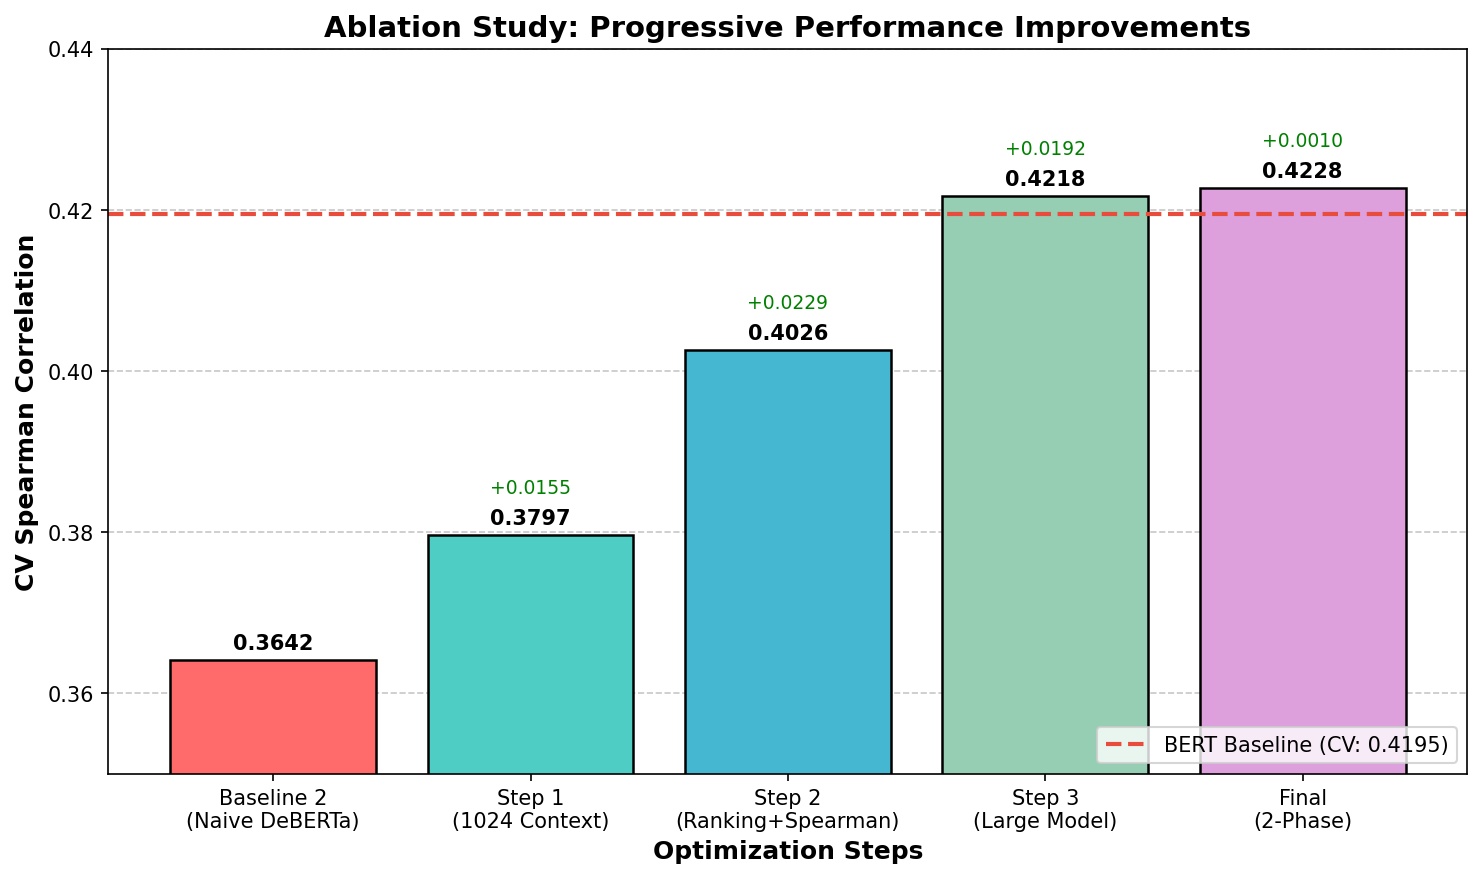
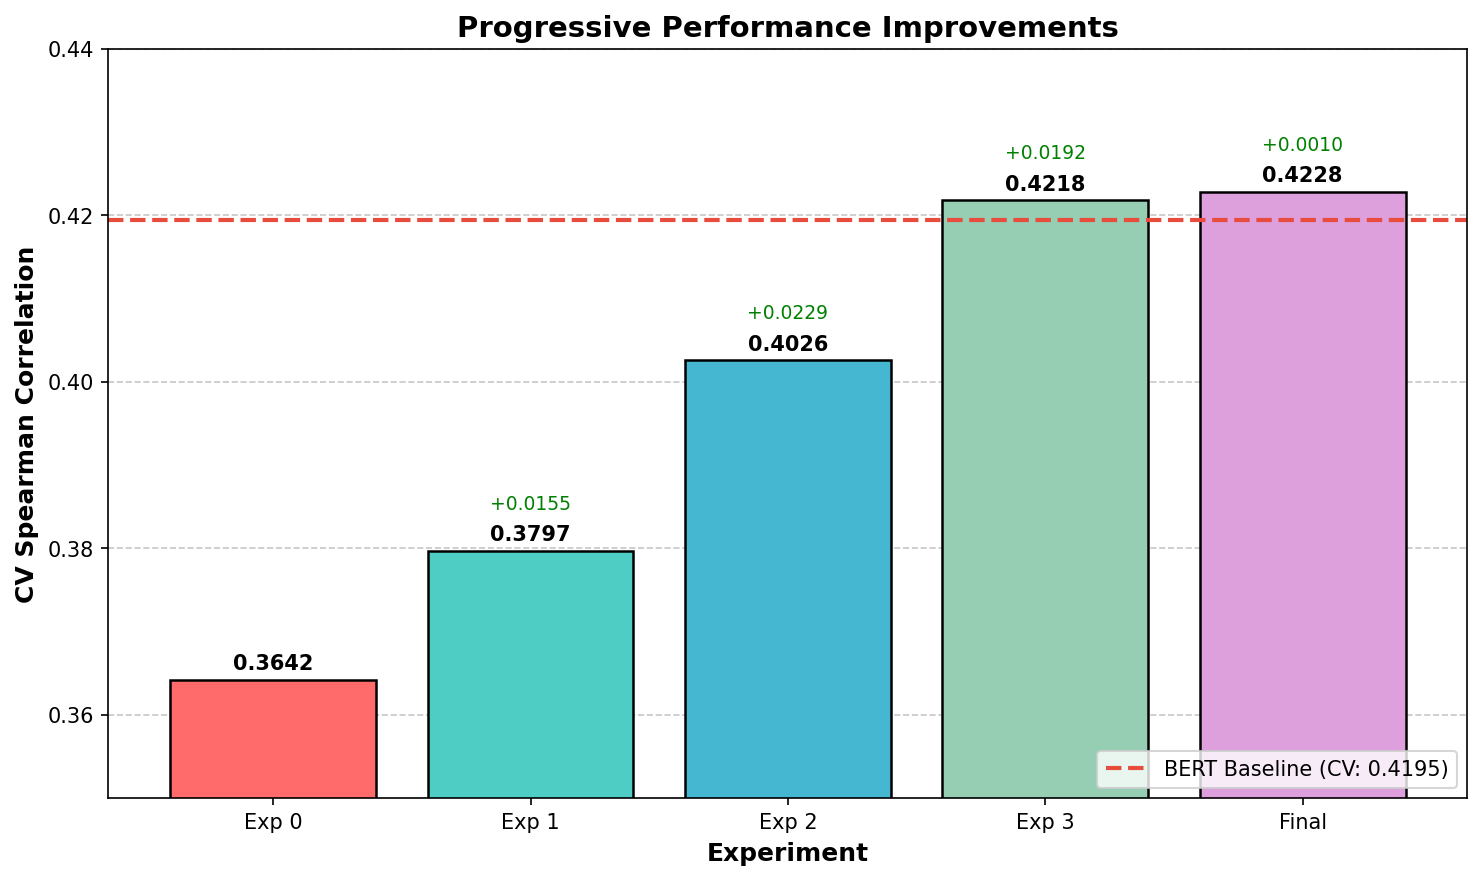
docs: simplify ablation chart labels and title

diff --git a/final/scripts/generate_ablation_chart.py b/final/scripts/generate_ablation_chart.py
@@ -2,7 +2,7 @@ import matplotlib.pyplot as plt
 import numpy as np
 
 # Data from the experiments table
-steps = ['Baseline 2\n(Naive DeBERTa)', 'Step 1\n(1024 Context)', 'Step 2\n(Ranking+Spearman)', 'Step 3\n(Large Model)', 'Final\n(2-Phase)']
+steps = ['Exp 0', 'Exp 1', 'Exp 2', 'Exp 3', 'Final']
 cv_scores = [0.3642, 0.3797, 0.4026, 0.4218, 0.4228]
 improvements = [0, 0.0155, 0.0229, 0.0192, 0.0010]
 
@@ -38,8 +38,8 @@ for bar, score, imp in zip(bars, cv_scores, improvements):
 
 # Labels and title
 ax.set_ylabel('CV Spearman Correlation', fontsize=12, fontweight='bold')
-ax.set_xlabel('Optimization Steps', fontsize=12, fontweight='bold')
-ax.set_title('Ablation Study: Progressive Performance Improvements', fontsize=14, fontweight='bold')
+ax.set_xlabel('Experiment', fontsize=12, fontweight='bold')
+ax.set_title('Progressive Performance Improvements', fontsize=14, fontweight='bold')
 
 # Y-axis limits
 ax.set_ylim(0.35, 0.44)
